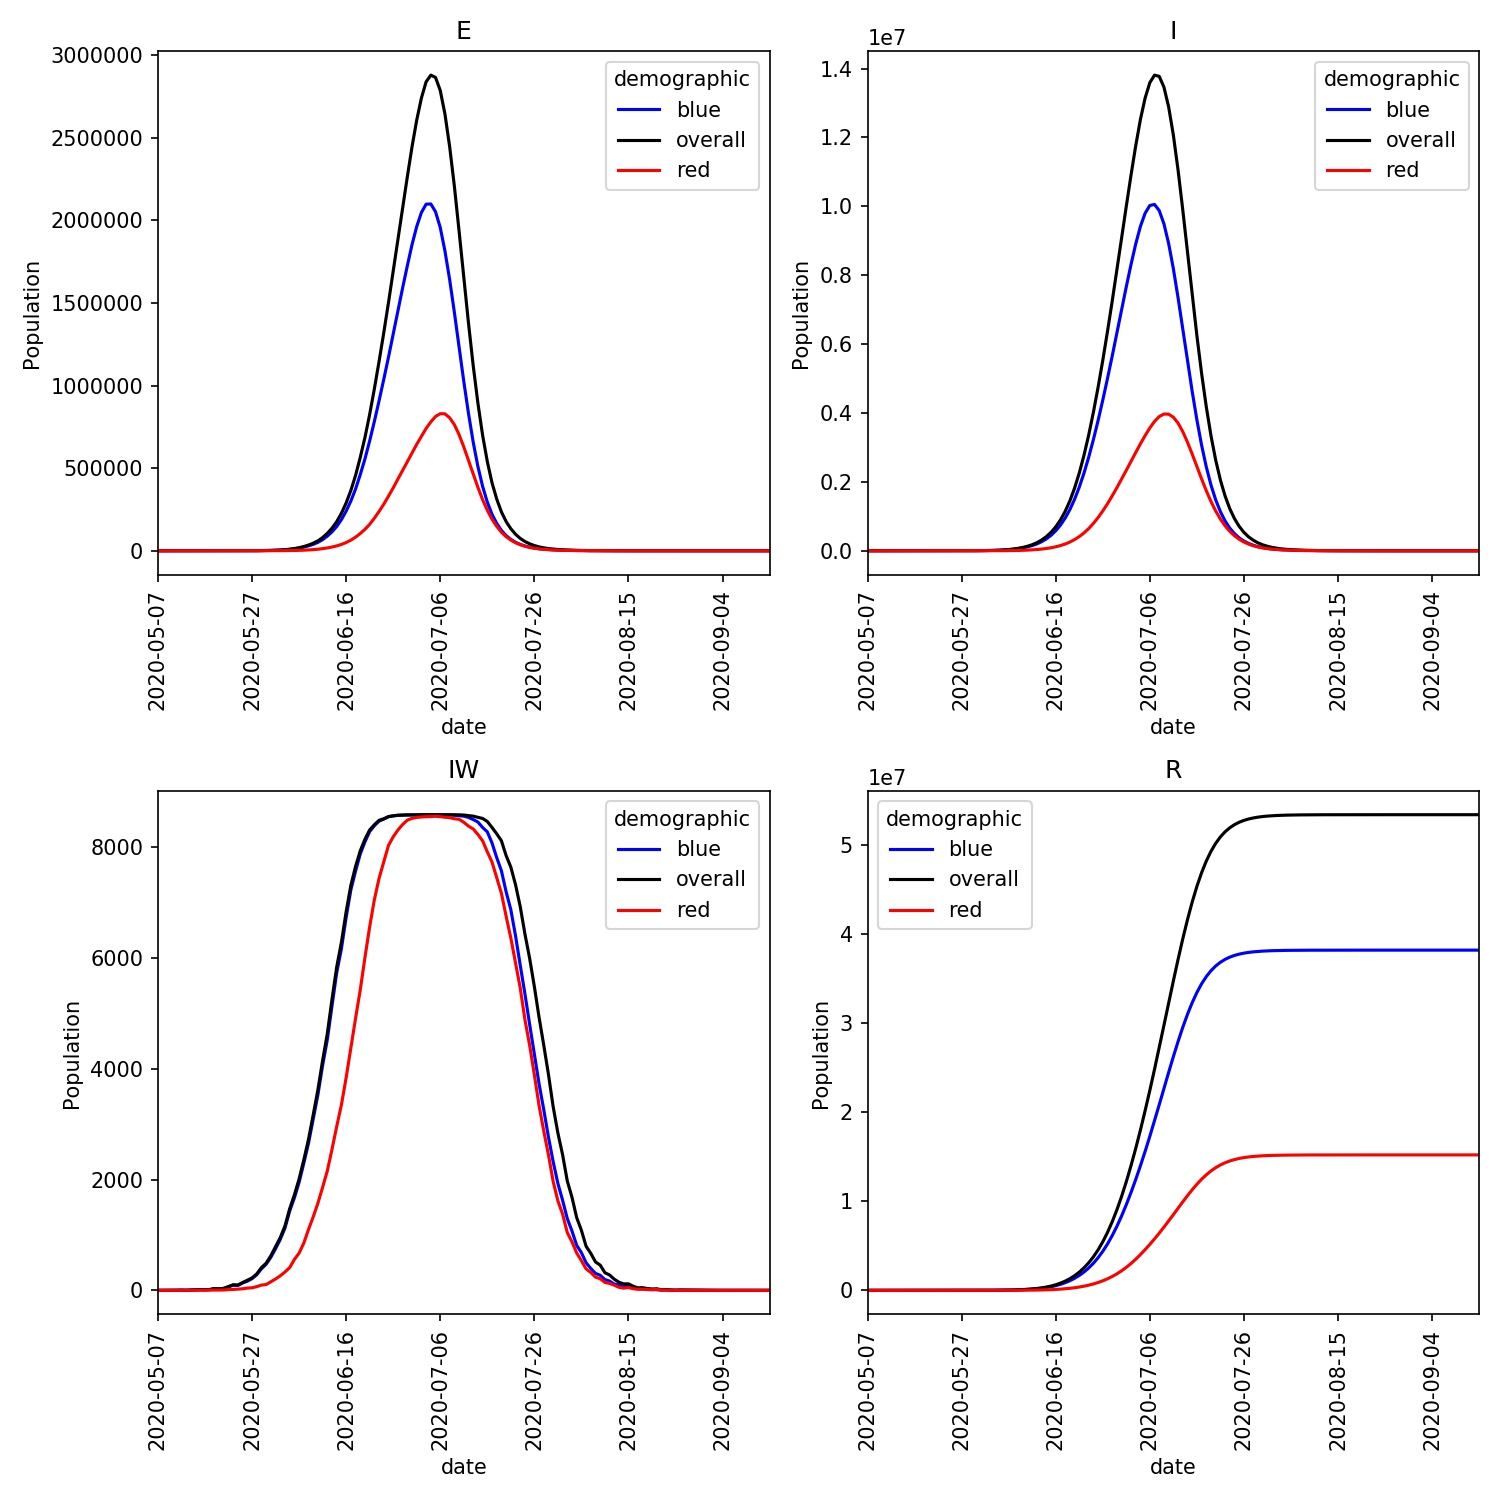
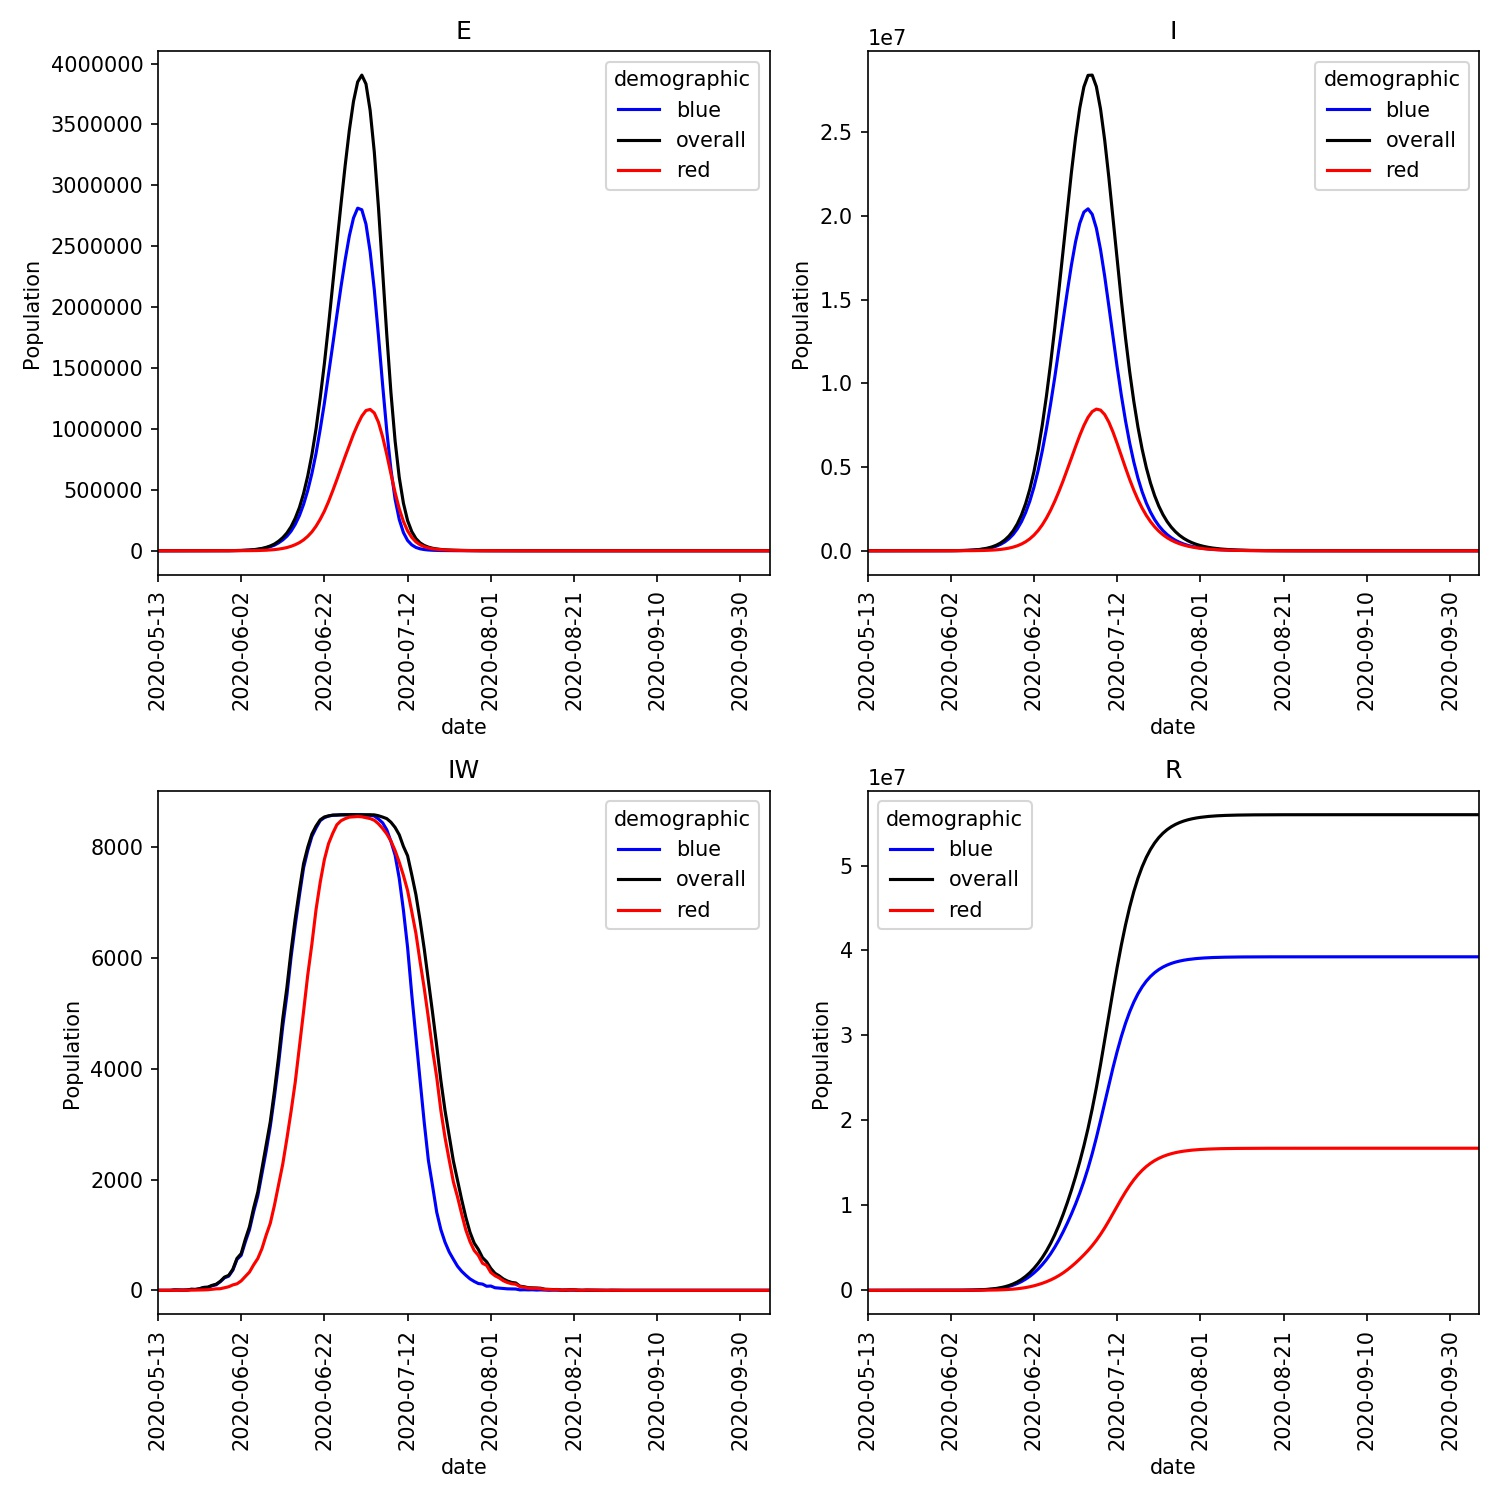
Updated most of part 5 to use lurgy3 rather than lurgy2. Just waiting for the catalyst job to finish

diff --git a/doc/source/tutorial/part05/03_custom.rst b/doc/source/tutorial/part05/03_custom.rst
@@ -110,7 +110,7 @@ using;
 
 .. code-block:: bash
 
-   metawards -d lurgy2 -D demographics.json -a ExtraSeedsLondon.dat --mixer shield
+   metawards -d lurgy3 -D demographics.json -a ExtraSeedsLondon.dat --mixer shield
 
 You should see that, while the infection moves through most of the *blue*
 demographic, it is relatively contained within the *red* demographic.
@@ -211,7 +211,7 @@ You can run these jobs using this command;
 
 .. code-block:: bash
 
-   metawards -d lurgy2 -D demographics.json -a ExtraSeedsLondonBlue.dat --mixer shield --user-variables shield.inp -i scan.dat
+   metawards -d lurgy3 -D demographics.json -a ExtraSeedsLondonBlue.dat --mixer shield --user-variables shield.inp -i scan.dat
 
 or, alternatively if you have a cluster you could use a job script such
 as this to run multiple repeats (always a good idea for a stochastic
@@ -230,7 +230,7 @@ simulation).
     # change into the directory from which this job was submitted
     cd $PBS_O_WORKDIR
 
-    metawards -u shield.inp -i scan.dat -d lurgy2 \
+    metawards -u shield.inp -i scan.dat -d lurgy3 \
               -D demographics.json -a ExtraSeedsLondonBlue.dat \
               --mixer shield \
               --repeats 8 --nthreads 16 --force-overwrite-output
@@ -248,7 +248,7 @@ if you are using PBS, or
     # Assume you have metawards in $HOME/envs/metawards
     source $HOME/metawards/bin/activate
 
-    metawards -u shield.inp -i scan.dat -d lurgy2 \
+    metawards -u shield.inp -i scan.dat -d lurgy3 \
               -D demographics.json -a ExtraSeedsLondonBlue.dat \
               --mixer shield \
               --repeats 8 --nthreads 16 --force-overwrite-output

diff --git a/doc/source/tutorial/part05/01_demographics.rst b/doc/source/tutorial/part05/01_demographics.rst
@@ -90,7 +90,7 @@ command line argument. Run ``metawards`` using;
 
 .. code-block:: bash
 
-   metawards -d lurgy2 -D demographics.json
+   metawards -d lurgy3 -D demographics.json
 
 In the output you should see lines such as;
 
@@ -166,7 +166,7 @@ We can seed an infection just as before, by using the ``--additional``
 
 .. code-block:: bash
 
-   metawards -d lurgy2 -D demographics.json -a ExtraSeedsLondon.dat
+   metawards -d lurgy3 -D demographics.json -a ExtraSeedsLondon.dat
 
 You should see output similar (but not identical) to;
 
@@ -338,7 +338,7 @@ to see a different outbreak. Perform a *model run* using;
 
 .. code-block:: bash
 
-  metawards -d lurgy2 -D demographics.json -a ExtraSeedsLondonBlue.dat
+  metawards -d lurgy3 -D demographics.json -a ExtraSeedsLondonBlue.dat
 
 You should see a more sustained outbreak, ending in a similar way to this;
 

diff --git a/doc/source/tutorial/part05/02_mixers.rst b/doc/source/tutorial/part05/02_mixers.rst
@@ -44,7 +44,7 @@ using;
 
 .. code-block:: bash
 
-  metawards -d lurgy2 -D demographics.json -a ExtraSeedsLondon.dat --mixer mix_evenly
+  metawards -d lurgy3 -D demographics.json -a ExtraSeedsLondon.dat --mixer mix_evenly
 
 You should now see that the outbreak spreads from the initial infection in
 the *red* demographic to the *blue workers*, who then spread it around

diff --git a/doc/source/tutorial/part06/01_movers.rst b/doc/source/tutorial/part06/01_movers.rst
@@ -238,7 +238,7 @@ that they have symptoms. Edit ``move_isolate.py`` and change it to read;
 
 (we have just changed ``self_isolate_stage`` from ``2`` to ``3``).
 
-Now run ``metawards`` again using
+Now run ``metawards`` again using;
 
 .. code-block:: bash
 
